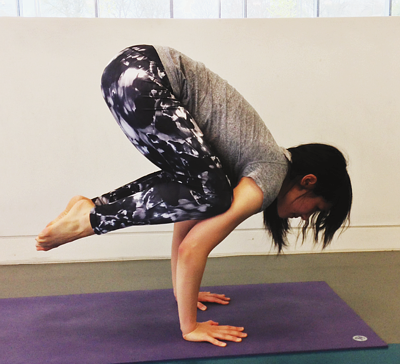
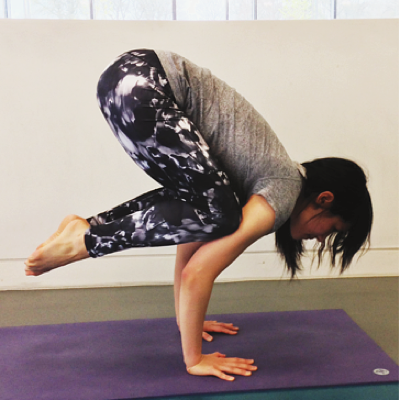
Resize photos, add new photos to gallery

diff --git a/css/index.css b/css/index.css
@@ -1,1 +1,1 @@
-header{grid-area:header}#about{grid-area:about}#classes{grid-area:classes}#testimonials{grid-area:testimonials}#gallery{grid-area:gallery}#contact{grid-area:contact}footer{grid-area:footer}@font-face{font-family:Karla-Regular;src:url("../fonts/Karla-Regular.ttf")}@font-face{font-family:Karla-Bold;src:url("../fonts/Karla-Bold.ttf")}@font-face{font-family:chocoleta;src:url("../fonts/chocoleta.ttf")}body{font-family:Karla-Regular,"Helvetica Neue",sans-serif;color:#333;max-width:1264px;height:100vh;margin:0 auto;display:grid;grid-template-areas:"header" "about" "classes" "testimonials" "gallery" "contact" "footer";grid-template-columns:1fr;grid-template-rows:100px repeat(5, auto) 30px}body h1{text-align:center}body a{text-decoration:none}body header{position:fixed;background-color:white;top:0px;width:1264px;padding:30px 0}body header nav{display:grid;grid-template-columns:40% repeat(4, 15%);grid-template-rows:1fr;z-index:1}body header nav a{color:#333}body header nav a:not(#logo-nav){margin-top:25px;font-family:Karla-Bold;font-size:18px}body header nav a:hover{text-decoration:underline}body header nav #logo-nav{font-family:chocoleta,"Georgia",serif;font-size:60px;color:#333;text-decoration:none;z-index:2}body footer p{color:#666666}body section{margin:0 auto;margin:0 auto 80px auto}body h1{background-color:rgba(105,36,180,0.08);padding:10px 0}body #about{display:grid;grid-template-columns:300px 1fr;grid-template-rows:1fr;grid-gap:10px;margin-top:32px}body #about #about-image img{width:300px}body #gallery{width:100%}body #gallery #photos{display:grid;grid-template-columns:repeat(2, 1fr);grid-template-rows:100%;grid-gap:10px}body #gallery #photos img{margin:0 auto}body #contact .icons{display:grid;grid-template-columns:repeat(4, 25%);grid-template-rows:100%;margin:0 auto 100px auto;width:400px}body #contact .icons a{margin:0 auto}body #contact .icons .facebook-icon{height:50px}body #contact .icons svg{fill:#333}h1,h2,h3{font-family:Karla-Regular,"Helvetica Neue"}h1{font-size:40px}h2{font-size:30px}h3{font-size:24px}p{font-size:16px;margin-top:0;line-height:1.5em}figure:not(:last-child){margin-bottom:50px}blockquote{padding-left:1rem;border-left:4px solid rgba(0,0,0,0.1);line-height:1.5em}figcaption{font-size:87.5%;color:rgba(49,52,57,0.65);padding-top:10px}table{width:1264px;margin:0 auto;box-shadow:1px 1px 3px rgba(0,0,0,0.2);border-collapse:collapse}table thead{font-family:Karla-Bold;white-space:nowrap}table thead th{text-align:left;padding:10px 30px}table tbody{overflow-wrap:break-word}table tbody tr:nth-of-type(odd){background:#f8f8f8}table tbody tr td{padding:10px 30px}@media (max-width: 1263px){body{margin:0 50px;width:calc(100vw - 100px)}body header{width:100%}body section{width:inherit;margin:0}body table{width:inherit}body header nav{grid-template-columns:33% repeat(4, 15%)}}@media (max-width: 810px){body header nav a:not(#logo-nav){display:none}body #about{display:block}body #about #about-image img{float:left;margin-right:10px;width:180px}body #about-extended{display:none}body #gallery #photos img{max-width:150px}body #contact .icons{width:auto}blockquote{margin:0}table thead th{padding:10px 20px}table tbody tr td{padding:10px 20px}}@media (max-width: 415px){body{margin:0 20px;width:calc(100vw - 40px)}}
+header{grid-area:header}#about{grid-area:about}#classes{grid-area:classes}#testimonials{grid-area:testimonials}#gallery{grid-area:gallery}#contact{grid-area:contact}footer{grid-area:footer}@font-face{font-family:Karla-Regular;src:url("../fonts/Karla-Regular.ttf")}@font-face{font-family:Karla-Bold;src:url("../fonts/Karla-Bold.ttf")}@font-face{font-family:chocoleta;src:url("../fonts/chocoleta.ttf")}body{font-family:Karla-Regular,"Helvetica Neue",sans-serif;color:#333;max-width:1264px;height:100vh;margin:0 auto;display:grid;grid-template-areas:"header" "about" "classes" "testimonials" "gallery" "contact" "footer";grid-template-columns:1fr;grid-template-rows:100px repeat(5, auto) 30px}body h1{text-align:center}body a{text-decoration:none}body header{position:fixed;background-color:white;top:0px;width:1264px;padding:30px 0}body header nav{display:grid;grid-template-columns:40% repeat(4, 15%);grid-template-rows:1fr;z-index:1}body header nav a{color:#333}body header nav a:not(#logo-nav){margin-top:25px;font-family:Karla-Bold;font-size:18px}body header nav a:hover{text-decoration:underline}body header nav #logo-nav{font-family:chocoleta,"Georgia",serif;font-size:60px;color:#333;text-decoration:none;z-index:2}body footer p{color:#666666}body section{margin:0 auto;margin:0 auto 80px auto}body h1{background-color:rgba(105,36,180,0.08);padding:10px 0}body #about{display:grid;grid-template-columns:300px 1fr;grid-template-rows:1fr;grid-gap:10px;margin-top:32px}body #about #about-image img{width:300px}body #gallery #photos{display:grid;grid-template-columns:repeat(2, 1fr);grid-template-rows:100%;grid-gap:10px}body #gallery #photos img{margin:0 auto}body #contact .icons{display:grid;grid-template-columns:repeat(4, 25%);grid-template-rows:100%;margin:0 auto 100px auto;width:400px}body #contact .icons a{margin:0 auto}body #contact .icons .facebook-icon{height:50px}body #contact .icons svg{fill:#333}h1,h2,h3{font-family:Karla-Regular,"Helvetica Neue"}h1{font-size:40px}h2{font-size:30px}h3{font-size:24px}p{font-size:16px;margin-top:0;line-height:1.5em}figure:not(:last-child){margin-bottom:50px}blockquote{padding-left:1rem;border-left:4px solid rgba(0,0,0,0.1);line-height:1.5em}figcaption{font-size:87.5%;color:rgba(49,52,57,0.65);padding-top:10px}table{width:1264px;margin:0 auto;box-shadow:1px 1px 3px rgba(0,0,0,0.2);border-collapse:collapse}table thead{font-family:Karla-Bold;white-space:nowrap}table thead th{text-align:left;padding:10px 30px}table tbody{overflow-wrap:break-word}table tbody tr:nth-of-type(odd){background:#f8f8f8}table tbody tr td{padding:10px 30px}@media (max-width: 1263px){body{margin:0 50px;width:calc(100vw - 100px)}body header{width:100%}body section{width:inherit;margin:0}body table{width:inherit}body header nav{grid-template-columns:33% repeat(4, 15%)}}@media (max-width: 810px){body header nav a:not(#logo-nav){display:none}body #about{display:block}body #about #about-image img{float:left;margin-right:10px;width:180px}body #about-extended{display:none}body #gallery #photos img{max-width:150px}body #contact .icons{width:auto}blockquote{margin:0}table thead th{padding:10px 20px}table tbody tr td{padding:10px 20px}}@media (max-width: 415px){body{margin:0 20px;width:calc(100vw - 40px)}}

diff --git a/index.html b/index.html
@@ -38,7 +38,7 @@
 
 		<section id="about">
 			<div id="about-image">
-				<img src="img/gallery/ncyoga_urdhva_padmasana.JPG" alt="NC Yoga - Urdhva Padmasana, Upward Lotus Pose">
+				<img src="img/gallery/ncyoga_urdhva_padmasana.png" alt="NC Yoga - Urdhva Padmasana, Upward Lotus Pose">
 			</div>
 
 			<div id="about-text">
@@ -95,7 +95,9 @@
 
 			<div id="photos">
 				<img src="img/gallery/ncyoga_bakasana.PNG" alt="NC Yoga - Bakasana, Crow Pose">
-				<img src="img/gallery/ncyoga_bhujapidasana.PNG" alt="NC Yoga - Bhujapidasana, Arm-Pressing Pose">
+				<img src="img/gallery/ncyoga_urdhva_padmasana_2.png" alt="NC Yoga - Urdhva Padmasana, Upward Lotus Pose">
+				<img src="img/gallery/ncyoga_MGV2017_2.png" alt="NC Yoga - Morning Gloryville, Culture Night 2017">
+				<img src="img/gallery/ncyoga_MGV2017_1.png" alt="NC Yoga - Morning Gloryville, Culture Night 2017">
 			</div>
 		</section>
 

diff --git a/sass/index.scss b/sass/index.scss
@@ -146,8 +146,6 @@ body {
 	}
 
 	#gallery {
-		width: 100%;
-
 		#photos {
 			display: grid;
 			grid-template-columns: repeat(2, 1fr);
